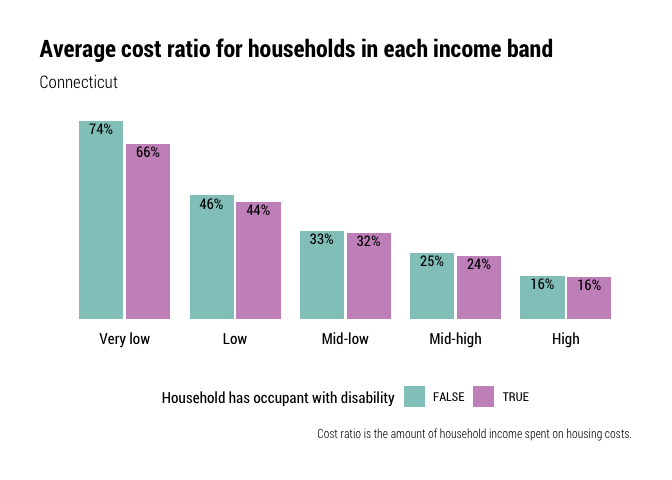
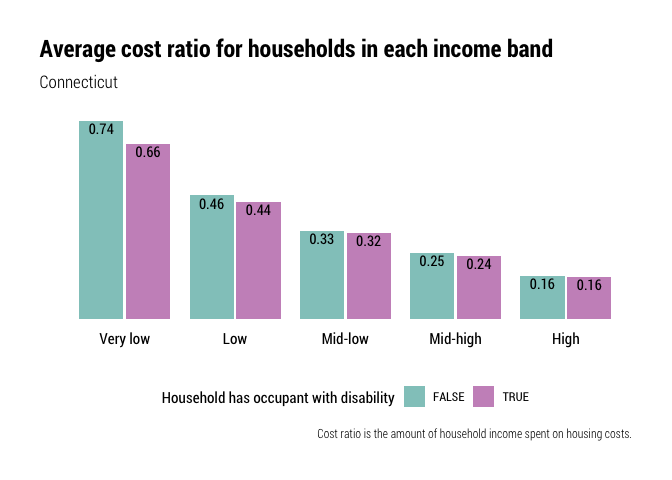
fix ratio text label in cost ratio for hh with disability

diff --git a/notebooks/hh_desiring_housing.md b/notebooks/hh_desiring_housing.md
@@ -995,6 +995,9 @@ of that income band. This is less helpful for less populous counties.
 
 ### Disability
 
+**For breakouts by disability type, see disability.Rmd in notebooks
+folder on repo**
+
 Because of the sample size, I’m only looking at these households
 statewide, not by county.
 
@@ -1467,6 +1470,7 @@ While the High band has the most (by count) households with an occupant
 with a disability, it has the smallest share.
 
 ![](hh_desiring_housing_files/figure-gfm/unnamed-chunk-3-1.png)<!-- -->
+
 Finally, what are the average cost burden rates for households with an
 occupant with a disability?
 
